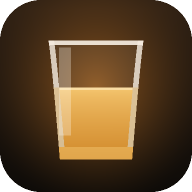
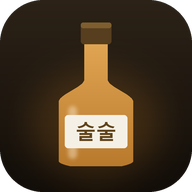
앱 아이콘을 '술술' 위스키병으로 교체, 인앱 브라우저 안내 배너 추가
아이콘: 기존 텀블러는 브랜드가 없고 형태도 거칠었다. '술술' 라벨을 붙인
  위스키병 실루엣으로 새로 그렸다(tools-make-icon.py, 4배 슈퍼샘플).
  - 48px 런처에서는 글자가 아니라 실루엣이 앱을 구분한다 → 병을 크게 잡고
    라벨 글자는 큰 크기에서 읽히는 보너스로 뒀다. favicon-64 는 글자를 뺐다.
  - 목을 길고 좁게, 몸통을 좁게 — 뭉툭하면 브랜디·잼병으로 읽혔다.
  - 캡슐이 배경에 묻혀 사라지던 문제: 캡 색을 올리고 상단에 밝은 포일 띠를 넣었다.
  - 라이트(크림 배경) 안도 만들어 비교했으나, 밝은 홈 화면 배경에서 경계가
    사라져 다크안을 택했다. 테마 전환은 make_icon 인자 하나(dark|light).
  - maskable 은 내용을 안쪽 70% 로 모으고, apple-touch 는 라운딩 없이 RGB
    (iOS 가 직접 깎고 알파를 검게 칠한다).

인앱 브라우저 배너: 카카오톡·블로그로 공유하면 대부분 인앱 브라우저로 들어오는데,
  그 안에서는 설치가 아예 불가능하다. ⚙ 안의 버튼만으로는 아무도 찾지 못하므로
  헤더 위 배너로 알린다. Android 는 intent:// 로 크롬을 직접 열고, iOS 는
  설치 안내 시트를 띄운다. 닫으면 그 세션에서만 사라진다 — 영속화하면 기기를
  바꿔 들어온 사람에게 두 번째 기회가 없다.
  sticky 로 두지 않았다: 좁은 화면에서 목록을 계속 가린다.

검증: 카카오톡 Android/iOS UA 로 배너가 뜨는 것을 확인. 360px 에서 두 변형 모두
  가로 넘침 0, 화면 밖으로 나간 요소 0 (캡처의 잘림은 헤드리스 최소 창 폭 제약이라
  수치로 재확인 — 실록 V-4).

diff --git a/index.html b/index.html
@@ -798,6 +798,24 @@ pre.csv{
 .guide li b{color:var(--ink)}
 /* 공유 아이콘을 문장 안에 넣어 '어떤 버튼인지'를 그림으로 보여 준다 */
 .ic.shr{width:14px;height:14px;vertical-align:-2px;color:var(--accent)}
+/* 인앱 브라우저 안내 배너 — 헤더 위에 붙어 스크롤과 함께 올라간다.
+   sticky 로 두면 좁은 화면에서 목록을 계속 가린다 */
+.inappbar{
+  display:flex;align-items:center;gap:9px;flex-wrap:wrap;
+  padding:calc(var(--safe-t) + 10px) 16px 10px;
+  background:var(--accent-bg);border-bottom:1px solid var(--accent-line);
+  font-size:12px;line-height:1.5;color:var(--ink2);
+}
+.inappbar[hidden]{display:none}
+.inappbar b{color:var(--ink)}
+.inappbar .txt{flex:1;min-width:150px;word-break:keep-all}
+.inappbar .go{
+  flex:none;height:31px;padding:0 13px;border-radius:9px;font-size:12px;font-weight:700;
+  background:var(--accent);color:#fff;border:0;text-decoration:none;
+  display:inline-flex;align-items:center;gap:5px;
+}
+.inappbar .x{flex:none;width:26px;height:26px;border-radius:7px;color:var(--ink3);font-size:13px}
+@media(min-width:1024px){ .inappbar{padding-left:calc(236px + 24px);padding-right:24px} }
 .qacct{
   font-family:var(--serif);font-size:14.5px;color:var(--ink);margin:0;
   text-align:center;letter-spacing:-.01em;word-break:keep-all;
@@ -822,6 +840,10 @@ pre.csv{
   <nav class="sidebar-nav" id="sideCats"></nav>
   <div class="sidebar-foot" id="sideStats"></div>
 </aside>
+
+<!-- 인앱 브라우저(카카오톡 등) 안내 배너. 설치 경로가 아예 없는 환경이므로
+     ⚙ 안의 버튼만으로는 아무도 찾지 못한다. JS 가 해당될 때만 채워 넣는다. -->
+<div class="inappbar" id="inappBar" hidden></div>
 
 <header class="top">
   <div class="top-in">
@@ -4299,6 +4321,28 @@ async function storageInfo(){
   }catch(e){ return null; }
 }
 askPersist();
+
+/* 인앱 브라우저 배너 — 카카오톡·블로그 링크로 들어온 사람이 가장 먼저 만나는 화면.
+   그 안에서는 설치가 불가능하므로 기본 브라우저로 나가는 길을 여기서 준다.
+   닫으면 그 세션에서는 다시 띄우지 않는다(플래그를 영속화하면 기기를 바꿔
+   들어온 사람에게 두 번째 기회가 없다). */
+(() => {
+  const app = inApp();
+  if (!app || isInstalled()) return;
+  const bar = $('#inappBar'); if (!bar) return;
+  const url = location.href.split('#')[0];
+  const intent = 'intent://' + url.replace(/^https?:\/\//, '')
+    + '#Intent;scheme=https;package=com.android.chrome;end';
+  bar.innerHTML = `<span class="txt"><b>${esc(app)} 안에서는 앱으로 설치할 수 없습니다.</b>
+      ${isIOS() ? 'Safari로 열면 홈 화면에 추가할 수 있습니다.'
+                : '크롬으로 열면 버튼 한 번으로 설치됩니다.'}</span>
+    ${isIOS() ? `<button class="go" id="iaHow">방법 보기</button>`
+              : `<a class="go" href="${esc(intent)}">크롬으로 열기</a>`}
+    <button class="x" id="iaX" aria-label="닫기">✕</button>`;
+  bar.hidden = false;
+  const how = $('#iaHow'); if (how) how.onclick = openInstall;
+  $('#iaX').onclick = () => { bar.hidden = true; };
+})();
 
 if ('serviceWorker' in navigator && location.protocol.startsWith('http'))
   addEventListener('load', async () => {

diff --git a/sw.js b/sw.js
@@ -1,6 +1,6 @@
 /* Sulsul Diary(술술다이어리) — Service Worker
    앱 셸: stale-while-revalidate / 외부 병 사진: cache-first(런타임 캐시) */
-const V = 'wc-shell-v18';
+const V = 'wc-shell-v19';
 const IMG = 'wc-img-v2';    // 일반 표시용 (no-cors, opaque 허용)
 const IMGC = 'wc-imgc-v2';  // CORS 요청용 — 캔버스 정규화에 쓰이므로 opaque를 섞으면 안 됨
 const SHELL = [

diff --git a/tools-make-icon.py b/tools-make-icon.py
@@ -1,0 +1,143 @@
+# -*- coding: utf-8 -*-
+"""술술다이어리 앱 아이콘 생성기.
+
+원칙
+- 48px 런처에서는 글자가 아니라 **실루엣**이 앱을 구분한다. 병 모양을 크게 잡고,
+  라벨의 '술술' 은 큰 크기(iOS 180px+)에서 읽히는 보너스로 둔다.
+- 배경과 병의 **명도 차이**를 충분히 둔다. 어두운 배경에 어두운 병을 놓으면
+  홈 화면에서 뭉개진다.
+- 4배로 그린 뒤 축소해 안티에일리어싱을 얻는다.
+
+사용: python make_icon.py <출력폴더> [dark|light]
+"""
+import os, sys
+from PIL import Image, ImageDraw, ImageFont, ImageFilter
+
+SS = 4
+
+THEMES = {
+    # 캐비닛 조명을 받는 유리 — 배경은 근검정, 병은 밝은 앰버
+    'dark': dict(
+        bg=((44, 34, 23), (16, 12, 8)),
+        glass=((238, 180, 96), (176, 112, 36)),
+        cap=(86, 62, 30), cap_hi=(126, 94, 46),
+        label=(245, 240, 230), ink=(96, 68, 26),
+        glow=(176, 112, 34), glow_a=64,
+    ),
+    # 밝은 진열장 — 앱의 기본 테마(크림)와 같은 계열
+    'light': dict(
+        bg=((252, 249, 243), (238, 230, 216)),
+        glass=((198, 134, 52), (140, 88, 26)),
+        cap=(58, 42, 20), cap_hi=(92, 68, 34),
+        label=(252, 250, 245), ink=(110, 78, 28),
+        glow=(150, 96, 34), glow_a=26,
+    ),
+}
+
+def vgrad(w, h, c0, c1):
+    g = Image.new('RGB', (1, h)); p = g.load()
+    for y in range(h):
+        t = y / max(1, h - 1)
+        p[0, y] = tuple(round(a + (b - a) * t) for a, b in zip(c0, c1))
+    return g.resize((w, h), Image.BILINEAR)
+
+def bottle_mask(S, cx, geo):
+    """병 실루엣 마스크 — 어깨는 smoothstep, 밑바닥은 살짝 둥글게"""
+    top, bot, nhw, bhw, cap_b, sh0, sh1, foot = geo
+    r = [(cx + nhw, top), (cx + nhw, sh0)]
+    N = 30
+    for i in range(N + 1):
+        t = i / N
+        e = t * t * (3 - 2 * t)
+        r.append((cx + nhw + (bhw - nhw) * e, sh0 + (sh1 - sh0) * t))
+    r.append((cx + bhw, bot - foot))
+    # 밑바닥 라운딩
+    M = 10
+    for i in range(1, M + 1):
+        t = i / M
+        r.append((cx + bhw * (1 - 0.30 * t * t), bot - foot * (1 - t)))
+    m = Image.new('L', (S, S), 0)
+    ImageDraw.Draw(m).polygon(r + [(2 * cx - x, y) for x, y in reversed(r)], fill=255)
+    return m
+
+def pick_font(size):
+    for p in ('C:/Windows/Fonts/malgunbd.ttf', 'C:/Windows/Fonts/malgun.ttf'):
+        try: return ImageFont.truetype(p, size)
+        except Exception: pass
+    return None
+
+def build(size, theme='dark', *, maskable=False, rounded=True, text=True):
+    T = THEMES[theme]
+    S = size * SS
+    im = Image.new('RGB', (S, S), T['bg'][1])
+    im.paste(vgrad(S, S, *T['bg']), (0, 0))
+
+    scale = 0.70 if maskable else 0.86      # maskable 은 바깥 20% 가 잘릴 수 있다
+    box = S * scale
+    off = (S - box) / 2
+    cx = S / 2
+    y = lambda f: off + box * f
+
+    # 병 뒤 발광
+    gl = Image.new('L', (S, S), 0)
+    ImageDraw.Draw(gl).ellipse([cx - box * .40, y(.34), cx + box * .40, y(1.0)], fill=T['glow_a'])
+    im.paste(Image.new('RGB', (S, S), T['glow']), (0, 0),
+             gl.filter(ImageFilter.GaussianBlur(box * .10)))
+
+    d = ImageDraw.Draw(im)
+    # 위스키병 — 목이 길고 몸통이 좁다. 뭉툭하면 브랜디·잼병으로 읽힌다.
+    geo = (y(.145), y(.925), box * .070, box * .225, y(.145), y(.40), y(.535), box * .030)
+    mask = bottle_mask(S, cx, geo)
+    im.paste(vgrad(S, S, *T['glass']), (0, 0), mask)
+
+    # 캡슐 — 목보다 넓게, 위쪽에 밝은 띠를 둬 '포일'로 읽히게
+    cw = box * .092
+    d.rounded_rectangle([cx - cw, y(.055), cx + cw, y(.185)], radius=box * .018, fill=T['cap'])
+    d.rounded_rectangle([cx - cw, y(.055), cx + cw, y(.088)], radius=box * .014, fill=T['cap_hi'])
+
+    # 왼쪽 유리 하이라이트
+    sh = Image.new('L', (S, S), 0)
+    ImageDraw.Draw(sh).rounded_rectangle(
+        [cx - box * .168, y(.56), cx - box * .116, y(.88)], radius=box * .026, fill=105)
+    sh = Image.composite(sh.filter(ImageFilter.GaussianBlur(box * .011)),
+                         Image.new('L', (S, S), 0), mask)
+    im.paste(Image.new('RGB', (S, S), (255, 243, 220)), (0, 0), sh)
+
+    # 라벨
+    lx, ly0, ly1 = box * .190, y(.615), y(.815)
+    d.rounded_rectangle([cx - lx, ly0, cx + lx, ly1], radius=box * .020, fill=T['label'])
+    if text:
+        f = pick_font(int(box * .125))
+        if f:
+            bb = d.textbbox((0, 0), '술술', font=f)
+            d.text((cx - (bb[2] - bb[0]) / 2 - bb[0],
+                    (ly0 + ly1) / 2 - (bb[3] - bb[1]) / 2 - bb[1]), '술술', font=f, fill=T['ink'])
+
+    out = im.resize((size, size), Image.LANCZOS)
+    if not rounded:
+        return out.convert('RGBA')
+    m = Image.new('L', (S, S), 0)
+    ImageDraw.Draw(m).rounded_rectangle([0, 0, S - 1, S - 1], radius=S * .225, fill=255)
+    res = Image.new('RGBA', (size, size), (0, 0, 0, 0))
+    res.paste(out, (0, 0), m.resize((size, size), Image.LANCZOS))
+    return res
+
+JOBS = [
+    ('icon-512.png',          512, dict(rounded=True,  text=True)),
+    ('icon-192.png',          192, dict(rounded=True,  text=True)),
+    ('icon-maskable-512.png', 512, dict(rounded=False, text=True,  maskable=True)),
+    ('icon-maskable-192.png', 192, dict(rounded=False, text=True,  maskable=True)),
+    ('apple-touch-icon.png',  180, dict(rounded=False, text=True)),
+    ('favicon-64.png',         64, dict(rounded=True,  text=False)),
+]
+
+if __name__ == '__main__':
+    out = sys.argv[1] if len(sys.argv) > 1 else '.'
+    theme = sys.argv[2] if len(sys.argv) > 2 else 'dark'
+    os.makedirs(out, exist_ok=True)
+    for name, sz, kw in JOBS:
+        img = build(sz, theme, **kw)
+        if name.startswith('apple'):
+            img = img.convert('RGB')          # iOS 는 알파를 검게 칠한다
+        img.save(os.path.join(out, name), optimize=True)
+    print(f'  {theme}: {len(JOBS)}개 생성 → {out}')
